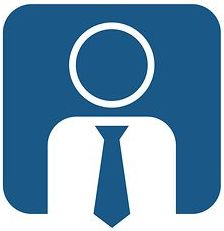
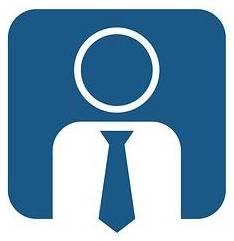
Improved margins on image. Release patch

diff --git a/README.md b/README.md
@@ -2,7 +2,7 @@
 
 Replaces the administration toolbar with a button leading to the administration section.
 
-Current version: 1.2.0
+Current version: 1.2.1
 
 Note: Installing from github.com, **could result in an error** when trying to activate the plugin. This happens because the plugin is designed to be installed from WP plugin repository and not by downloading it from github. The fix: just go to plugins in the admin dashboard and activate/update the plugin.
 
